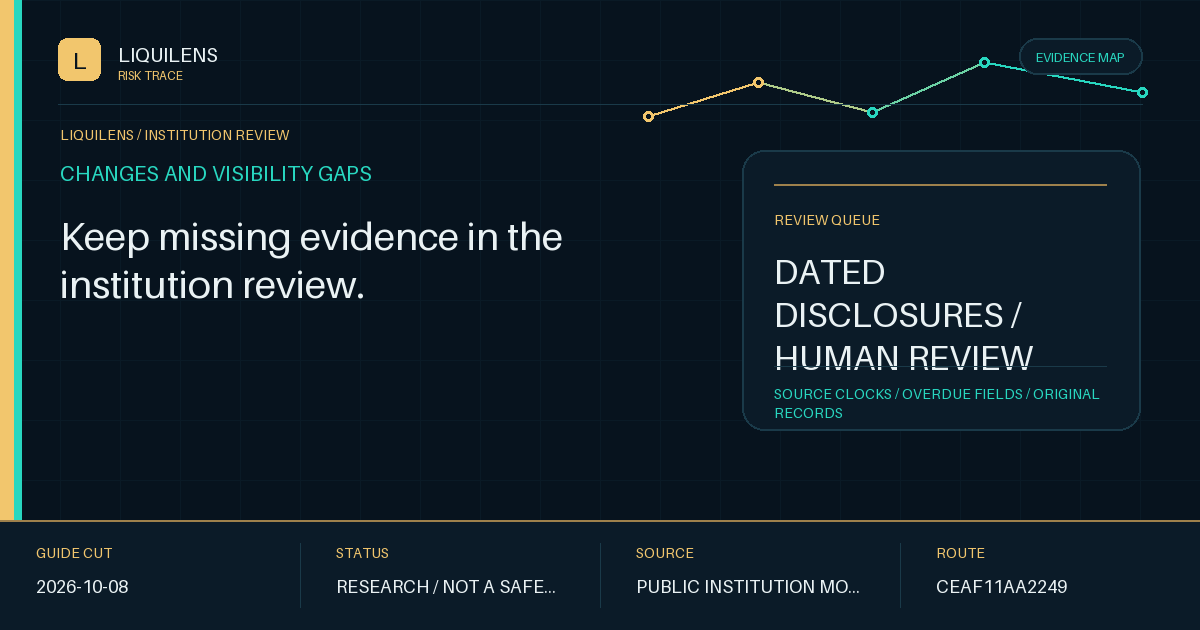
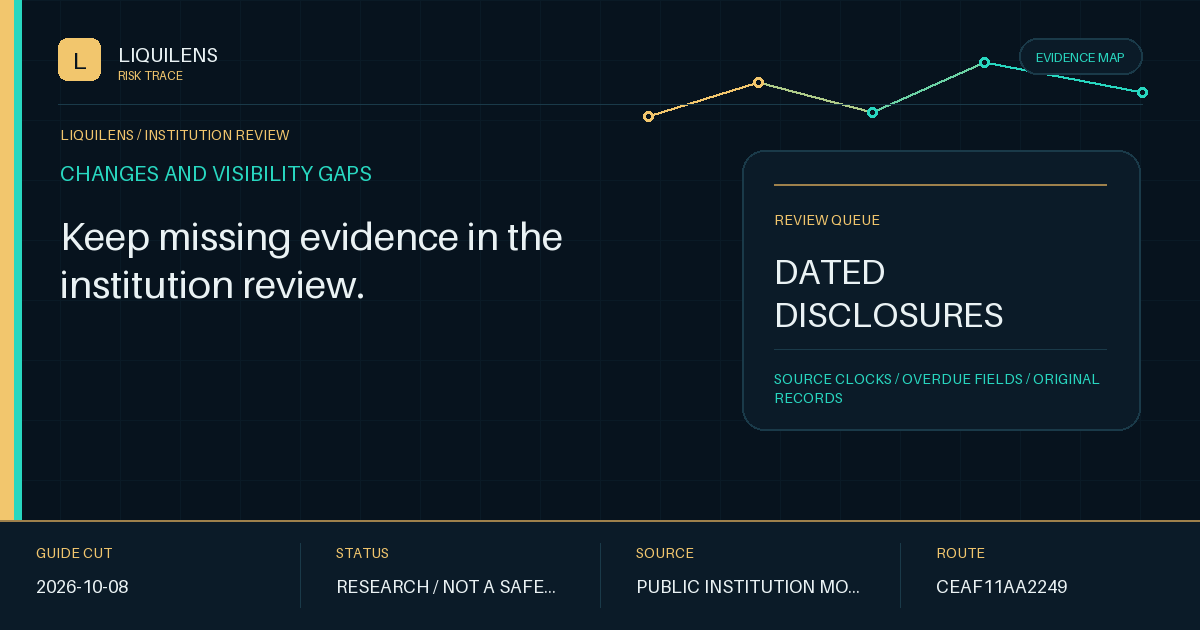
Keep current discovery notes and share cards readable

Changed region(s): [[0.6475, 0.5429, 0.925, 0.6635]]

diff --git a/banking/monitoring/index.html b/banking/monitoring/index.html
@@ -12,18 +12,18 @@
 <meta property="og:url" content="https://liquilens.in/banking/monitoring/">
 <meta property="og:title" content="Institution monitoring.">
 <meta property="og:description" content="Review institution evidence, changes and visibility gaps with original source dates and human review boundaries.">
-<meta property="og:image" content="https://liquilens.in/banking/monitoring/share.png?v=7c76f016e4c2ed30">
-<meta property="og:image:secure_url" content="https://liquilens.in/banking/monitoring/share.png?v=7c76f016e4c2ed30">
+<meta property="og:image" content="https://liquilens.in/banking/monitoring/share.png?v=9d81ff8eae134889">
+<meta property="og:image:secure_url" content="https://liquilens.in/banking/monitoring/share.png?v=9d81ff8eae134889">
 <meta property="og:image:type" content="image/png">
 <meta property="og:image:width" content="1200">
 <meta property="og:image:height" content="630">
-<meta property="og:image:alt" content="LiquiLens route card for CHANGES AND VISIBILITY GAPS: Keep missing evidence in the institution review. REVIEW QUEUE: DATED DISCLOSURES / HUMAN REVIEW. SOURCE CLOCKS / OVERDUE FIELDS / ORIGINAL RECORDS. GUIDE CUT 2026-10-08; status RESEARCH / NOT A SAFETY VERDICT.">
+<meta property="og:image:alt" content="LiquiLens route card for CHANGES AND VISIBILITY GAPS: Keep missing evidence in the institution review. REVIEW QUEUE: DATED DISCLOSURES. SOURCE CLOCKS / OVERDUE FIELDS / ORIGINAL RECORDS. GUIDE CUT 2026-10-08; status RESEARCH / NOT A SAFETY VERDICT.">
 <meta name="twitter:card" content="summary_large_image">
 <meta name="twitter:title" content="Institution monitoring.">
 <meta name="twitter:description" content="Review institution evidence, changes and visibility gaps with original source dates and human review boundaries.">
-<meta name="twitter:image" content="https://liquilens.in/banking/monitoring/share.png?v=7c76f016e4c2ed30">
-<meta name="twitter:image:alt" content="LiquiLens route card for CHANGES AND VISIBILITY GAPS: Keep missing evidence in the institution review. REVIEW QUEUE: DATED DISCLOSURES / HUMAN REVIEW. SOURCE CLOCKS / OVERDUE FIELDS / ORIGINAL RECORDS. GUIDE CUT 2026-10-08; status RESEARCH / NOT A SAFETY VERDICT.">
-<script type="application/ld+json" data-social-card>{"@context":"https://schema.org","@type":"WebPage","@id":"https://liquilens.in/banking/monitoring/#social-card","url":"https://liquilens.in/banking/monitoring/","image":"https://liquilens.in/banking/monitoring/share.png?v=7c76f016e4c2ed30","primaryImageOfPage":{"@type":"ImageObject","contentUrl":"https://liquilens.in/banking/monitoring/share.png?v=7c76f016e4c2ed30","width":1200,"height":630,"caption":"LiquiLens route card for CHANGES AND VISIBILITY GAPS: Keep missing evidence in the institution review. REVIEW QUEUE: DATED DISCLOSURES / HUMAN REVIEW. SOURCE CLOCKS / OVERDUE FIELDS / ORIGINAL RECORDS. GUIDE CUT 2026-10-08; status RESEARCH / NOT A SAFETY VERDICT."}}</script>
+<meta name="twitter:image" content="https://liquilens.in/banking/monitoring/share.png?v=9d81ff8eae134889">
+<meta name="twitter:image:alt" content="LiquiLens route card for CHANGES AND VISIBILITY GAPS: Keep missing evidence in the institution review. REVIEW QUEUE: DATED DISCLOSURES. SOURCE CLOCKS / OVERDUE FIELDS / ORIGINAL RECORDS. GUIDE CUT 2026-10-08; status RESEARCH / NOT A SAFETY VERDICT.">
+<script type="application/ld+json" data-social-card>{"@context":"https://schema.org","@type":"WebPage","@id":"https://liquilens.in/banking/monitoring/#social-card","url":"https://liquilens.in/banking/monitoring/","image":"https://liquilens.in/banking/monitoring/share.png?v=9d81ff8eae134889","primaryImageOfPage":{"@type":"ImageObject","contentUrl":"https://liquilens.in/banking/monitoring/share.png?v=9d81ff8eae134889","width":1200,"height":630,"caption":"LiquiLens route card for CHANGES AND VISIBILITY GAPS: Keep missing evidence in the institution review. REVIEW QUEUE: DATED DISCLOSURES. SOURCE CLOCKS / OVERDUE FIELDS / ORIGINAL RECORDS. GUIDE CUT 2026-10-08; status RESEARCH / NOT A SAFETY VERDICT."}}</script>
 <!-- SOCIAL-CARD:END -->
 </head><body class="research-site"><a class="research-skip" href="#main">Skip to content</a>
 <header class="research-header"><div class="research-mast"><a class="research-identity" href="/"><span><strong>LiquiLens</strong><small>Institution intelligence</small></span></a><nav class="research-network" aria-label="Products"><a href="/">LiquiLens</a><a href="https://seiche.info/">Seiche</a><a href="https://liquilens-undertow.com/">Undertow</a></nav><a class="research-api" href="/agents/">API &amp; agents</a></div><nav class="research-tabs" aria-label="LiquiLens sections"><a href="/">Overview</a><a href="/banking/monitoring/">Institution monitoring</a><a href="/banking/">Banking research</a><a href="/start/">Review workspace</a><a href="/updates/">Product updates</a></nav></header>

diff --git a/usage/2026-10-17/index.html b/usage/2026-10-17/index.html
@@ -14,18 +14,18 @@
 <meta property="og:url" content="https://liquilens.in/usage/2026-10-17/">
 <meta property="og:title" content="Technical activity, with its context.">
 <meta property="og:description" content="A dated record of product application calls and package downloads, with operator exclusions, coverage limits and unverified adoption kept explicit.">
-<meta property="og:image" content="https://liquilens.in/usage/2026-10-17/share.png?v=99605deaf2eb6cd8">
-<meta property="og:image:secure_url" content="https://liquilens.in/usage/2026-10-17/share.png?v=99605deaf2eb6cd8">
+<meta property="og:image" content="https://liquilens.in/usage/2026-10-17/share.png?v=964a4cc15202f095">
+<meta property="og:image:secure_url" content="https://liquilens.in/usage/2026-10-17/share.png?v=964a4cc15202f095">
 <meta property="og:image:type" content="image/png">
 <meta property="og:image:width" content="1200">
 <meta property="og:image:height" content="630">
-<meta property="og:image:alt" content="LiquiLens route card for FIXED-WINDOW EVIDENCE: Recorded activity, with its attribution and coverage limits. MEASUREMENT: APPLICATION EVENTS / PACKAGE DOWNLOADS. UNCLASSIFIED CALLS / PARTIAL COVERAGE / NO USER COUNT. WINDOW END UTC 2026-10-17 23:18; status ADOPTION AND REVENUE UNVERIFIED.">
+<meta property="og:image:alt" content="LiquiLens route card for FIXED-WINDOW EVIDENCE: Recorded activity, with its attribution and coverage limits. MEASUREMENT: CALLS / DOWNLOADS. UNCLASSIFIED CALLS / PARTIAL COVERAGE / NO USER COUNT. WINDOW END UTC 2026-10-17 23:18; status ADOPTION AND REVENUE UNVERIFIED.">
 <meta name="twitter:card" content="summary_large_image">
 <meta name="twitter:title" content="Technical activity, with its context.">
 <meta name="twitter:description" content="A dated record of product application calls and package downloads, with operator exclusions, coverage limits and unverified adoption kept explicit.">
-<meta name="twitter:image" content="https://liquilens.in/usage/2026-10-17/share.png?v=99605deaf2eb6cd8">
-<meta name="twitter:image:alt" content="LiquiLens route card for FIXED-WINDOW EVIDENCE: Recorded activity, with its attribution and coverage limits. MEASUREMENT: APPLICATION EVENTS / PACKAGE DOWNLOADS. UNCLASSIFIED CALLS / PARTIAL COVERAGE / NO USER COUNT. WINDOW END UTC 2026-10-17 23:18; status ADOPTION AND REVENUE UNVERIFIED.">
-<script type="application/ld+json" data-social-card>{"@context":"https://schema.org","@type":"WebPage","@id":"https://liquilens.in/usage/2026-10-17/#social-card","url":"https://liquilens.in/usage/2026-10-17/","image":"https://liquilens.in/usage/2026-10-17/share.png?v=99605deaf2eb6cd8","primaryImageOfPage":{"@type":"ImageObject","contentUrl":"https://liquilens.in/usage/2026-10-17/share.png?v=99605deaf2eb6cd8","width":1200,"height":630,"caption":"LiquiLens route card for FIXED-WINDOW EVIDENCE: Recorded activity, with its attribution and coverage limits. MEASUREMENT: APPLICATION EVENTS / PACKAGE DOWNLOADS. UNCLASSIFIED CALLS / PARTIAL COVERAGE / NO USER COUNT. WINDOW END UTC 2026-10-17 23:18; status ADOPTION AND REVENUE UNVERIFIED."}}</script>
+<meta name="twitter:image" content="https://liquilens.in/usage/2026-10-17/share.png?v=964a4cc15202f095">
+<meta name="twitter:image:alt" content="LiquiLens route card for FIXED-WINDOW EVIDENCE: Recorded activity, with its attribution and coverage limits. MEASUREMENT: CALLS / DOWNLOADS. UNCLASSIFIED CALLS / PARTIAL COVERAGE / NO USER COUNT. WINDOW END UTC 2026-10-17 23:18; status ADOPTION AND REVENUE UNVERIFIED.">
+<script type="application/ld+json" data-social-card>{"@context":"https://schema.org","@type":"WebPage","@id":"https://liquilens.in/usage/2026-10-17/#social-card","url":"https://liquilens.in/usage/2026-10-17/","image":"https://liquilens.in/usage/2026-10-17/share.png?v=964a4cc15202f095","primaryImageOfPage":{"@type":"ImageObject","contentUrl":"https://liquilens.in/usage/2026-10-17/share.png?v=964a4cc15202f095","width":1200,"height":630,"caption":"LiquiLens route card for FIXED-WINDOW EVIDENCE: Recorded activity, with its attribution and coverage limits. MEASUREMENT: CALLS / DOWNLOADS. UNCLASSIFIED CALLS / PARTIAL COVERAGE / NO USER COUNT. WINDOW END UTC 2026-10-17 23:18; status ADOPTION AND REVENUE UNVERIFIED."}}</script>
 <!-- SOCIAL-CARD:END -->
 </head><body class="research-site"><a class="research-skip" href="#main">Skip to content</a>
 <header class="research-header"><div class="research-mast"><a class="research-identity" href="/"><span><strong>LiquiLens</strong><small>Financial evidence infrastructure</small></span></a><nav class="research-network" aria-label="Products"><a href="/">LiquiLens</a><a href="https://seiche.info/">Seiche</a><a href="https://liquilens-undertow.com/">Undertow</a></nav><a class="research-api" href="/developers/">API &amp; MCP</a></div></header>

diff --git a/developers/index.html b/developers/index.html
@@ -53,7 +53,7 @@ claude mcp add --transport http undertow https://agents.seiche.info/products/und
 <section class="route" id="research-tools"><h2>Use OpenBB, Python or a spreadsheet.</h2><p>Connect the hosted research desk, download a source-cited notebook, or refresh flat rows in Excel and Power BI. The kit covers bank disclosures, dollar funding and market liquidity with dates, citations and explicit missing values.</p><p><a class="btn" href="https://beepboop2025.github.io/financial-evidence-skills/tools/">Set up your research tools</a></p></section>
   <section class="route" id="free-agent-kit"><h2>Free tools for your agent and scheduler.</h2><p>Download a tested Python starter kit, check the three MCP connections, and build a source-separated funding, bank and BTC exit brief. Compare the same request with your previous run. No public API key or model required.</p><p><a class="btn" href="/agents/">Get the free agent starter kit</a> <a href="/agents/#source-data">Browse source coverage and query histories</a></p></section>
   <section class="route" id="institution-workflow"><div class="label">Institutional agents and automation</div><h2>Connect a stress-review workflow.</h2><p>Use LiquiLens institution evidence with separately dated Seiche funding context. Get OpenClaw and Hermes configuration, a task-specific skill, and a Python recipe for your scheduler.</p><p><a class="btn" href="/developers/institutions/">Set up institution research</a> · <a href="/start/#connect">Build a client configuration</a></p></section>
-  <section class="route" id="connected-research"><div class="label">Connected evidence</div><h2>Follow a source through the research network.</h2><p>Palimpsest’s complete dataset catalog is connected to Seiche’s funding context, with explicit next steps into LiquiLens institution filings, Undertow exit liquidity and NarcoScope’s granular global data. Dates, missingness and reuse terms stay with each source.</p><p><a href="https://seiche.info/#RESEARCH">Open the connected research desk</a> · <a href="https://api.seiche.info/api/v2/research-network?topic=china&amp;limit=12">Read the China research API</a></p><div class="code">python3 financial_research.py connected-research<button class="copy" data-copy="python3 financial_research.py connected-research">copy</button></div><p>Call <code>research_network</code> over Seiche, LiquiLens, Undertow or NarcoScope MCP. Use <code>topic</code>, <code>offset</code> and <code>limit</code>; follow <code>next_offset</code> for the remaining datasets. Read Palimpsest’s native inventory from its <a href="https://www.palimpsest.info/readings/research-catalog-latest.json">published JSON catalog</a>. Its separate <code>research_catalog</code> MCP addition is prepared and awaits production approval. These are separate evidence records and do not establish a shared score, causality or trading authority.</p></section>
+  <section class="route" id="connected-research"><div class="label">Connected evidence</div><h2>Follow a source through the research network.</h2><p>Palimpsest’s complete dataset catalog is connected to Seiche’s funding context, with explicit next steps into LiquiLens institution filings, Undertow exit liquidity and NarcoScope’s granular global data. Dates, missingness and reuse terms stay with each source.</p><p><a href="https://seiche.info/#RESEARCH">Open the connected research desk</a> · <a href="https://api.seiche.info/api/v2/research-network?topic=china&amp;limit=12">Read the China research API</a></p><div class="code">python3 financial_research.py connected-research<button class="copy" data-copy="python3 financial_research.py connected-research">copy</button></div><p>Call <code>research_network</code> over Seiche, LiquiLens, Undertow or NarcoScope MCP. Use <code>topic</code>, <code>offset</code> and <code>limit</code>; follow <code>next_offset</code> for the remaining datasets. Read Palimpsest’s native inventory from its <a href="https://www.palimpsest.info/readings/research-catalog-latest.json">published JSON catalog</a>. A hosted discovery check on 17 October 2026 confirmed <code>research_catalog</code> among Palimpsest’s seven public MCP tools. These are separate evidence records and do not establish a shared score, causality or trading authority.</p></section>
   <section class="route" id="research-recipes" aria-labelledby="recipes-title">
     <div class="label">Start with a useful result · Python 3.11+ · no API key or LLM</div>
     <h2 id="recipes-title">Read a bank filing. Check funding. Compare BTC exit estimates.</h2>

diff --git a/scripts/static_social_cards.py b/scripts/static_social_cards.py
@@ -68,7 +68,7 @@ ROUTES = (
     RouteDefinition(
         "/usage/2026-10-17/", "technical-usage-20261017", "LIQUILENS / TECHNICAL ACTIVITY", "FIXED-WINDOW EVIDENCE",
         "Recorded activity, with its attribution and coverage limits.",
-        "MEASUREMENT", "APPLICATION EVENTS / PACKAGE DOWNLOADS",
+        "MEASUREMENT", "CALLS / DOWNLOADS",
         "UNCLASSIFIED CALLS / PARTIAL COVERAGE / NO USER COUNT", "WINDOW END UTC", "2026-10-17 23:18",
         "ADOPTION AND REVENUE UNVERIFIED", "PUBLISHER LOGS / REGISTRY PROVIDERS",
         signature_file="usage/2026-10-17/aggregate.json", og_type="article",
@@ -84,7 +84,7 @@ ROUTES = (
     RouteDefinition(
         "/banking/monitoring/", "institution-monitoring", "LIQUILENS / INSTITUTION REVIEW", "CHANGES AND VISIBILITY GAPS",
         "Keep missing evidence in the institution review.",
-        "REVIEW QUEUE", "DATED DISCLOSURES / HUMAN REVIEW",
+        "REVIEW QUEUE", "DATED DISCLOSURES",
         "SOURCE CLOCKS / OVERDUE FIELDS / ORIGINAL RECORDS", "GUIDE CUT", "2026-10-08",
         "RESEARCH / NOT A SAFETY VERDICT", "PUBLIC INSTITUTION MONITOR",
         signature_file="updates/capabilities.json",
